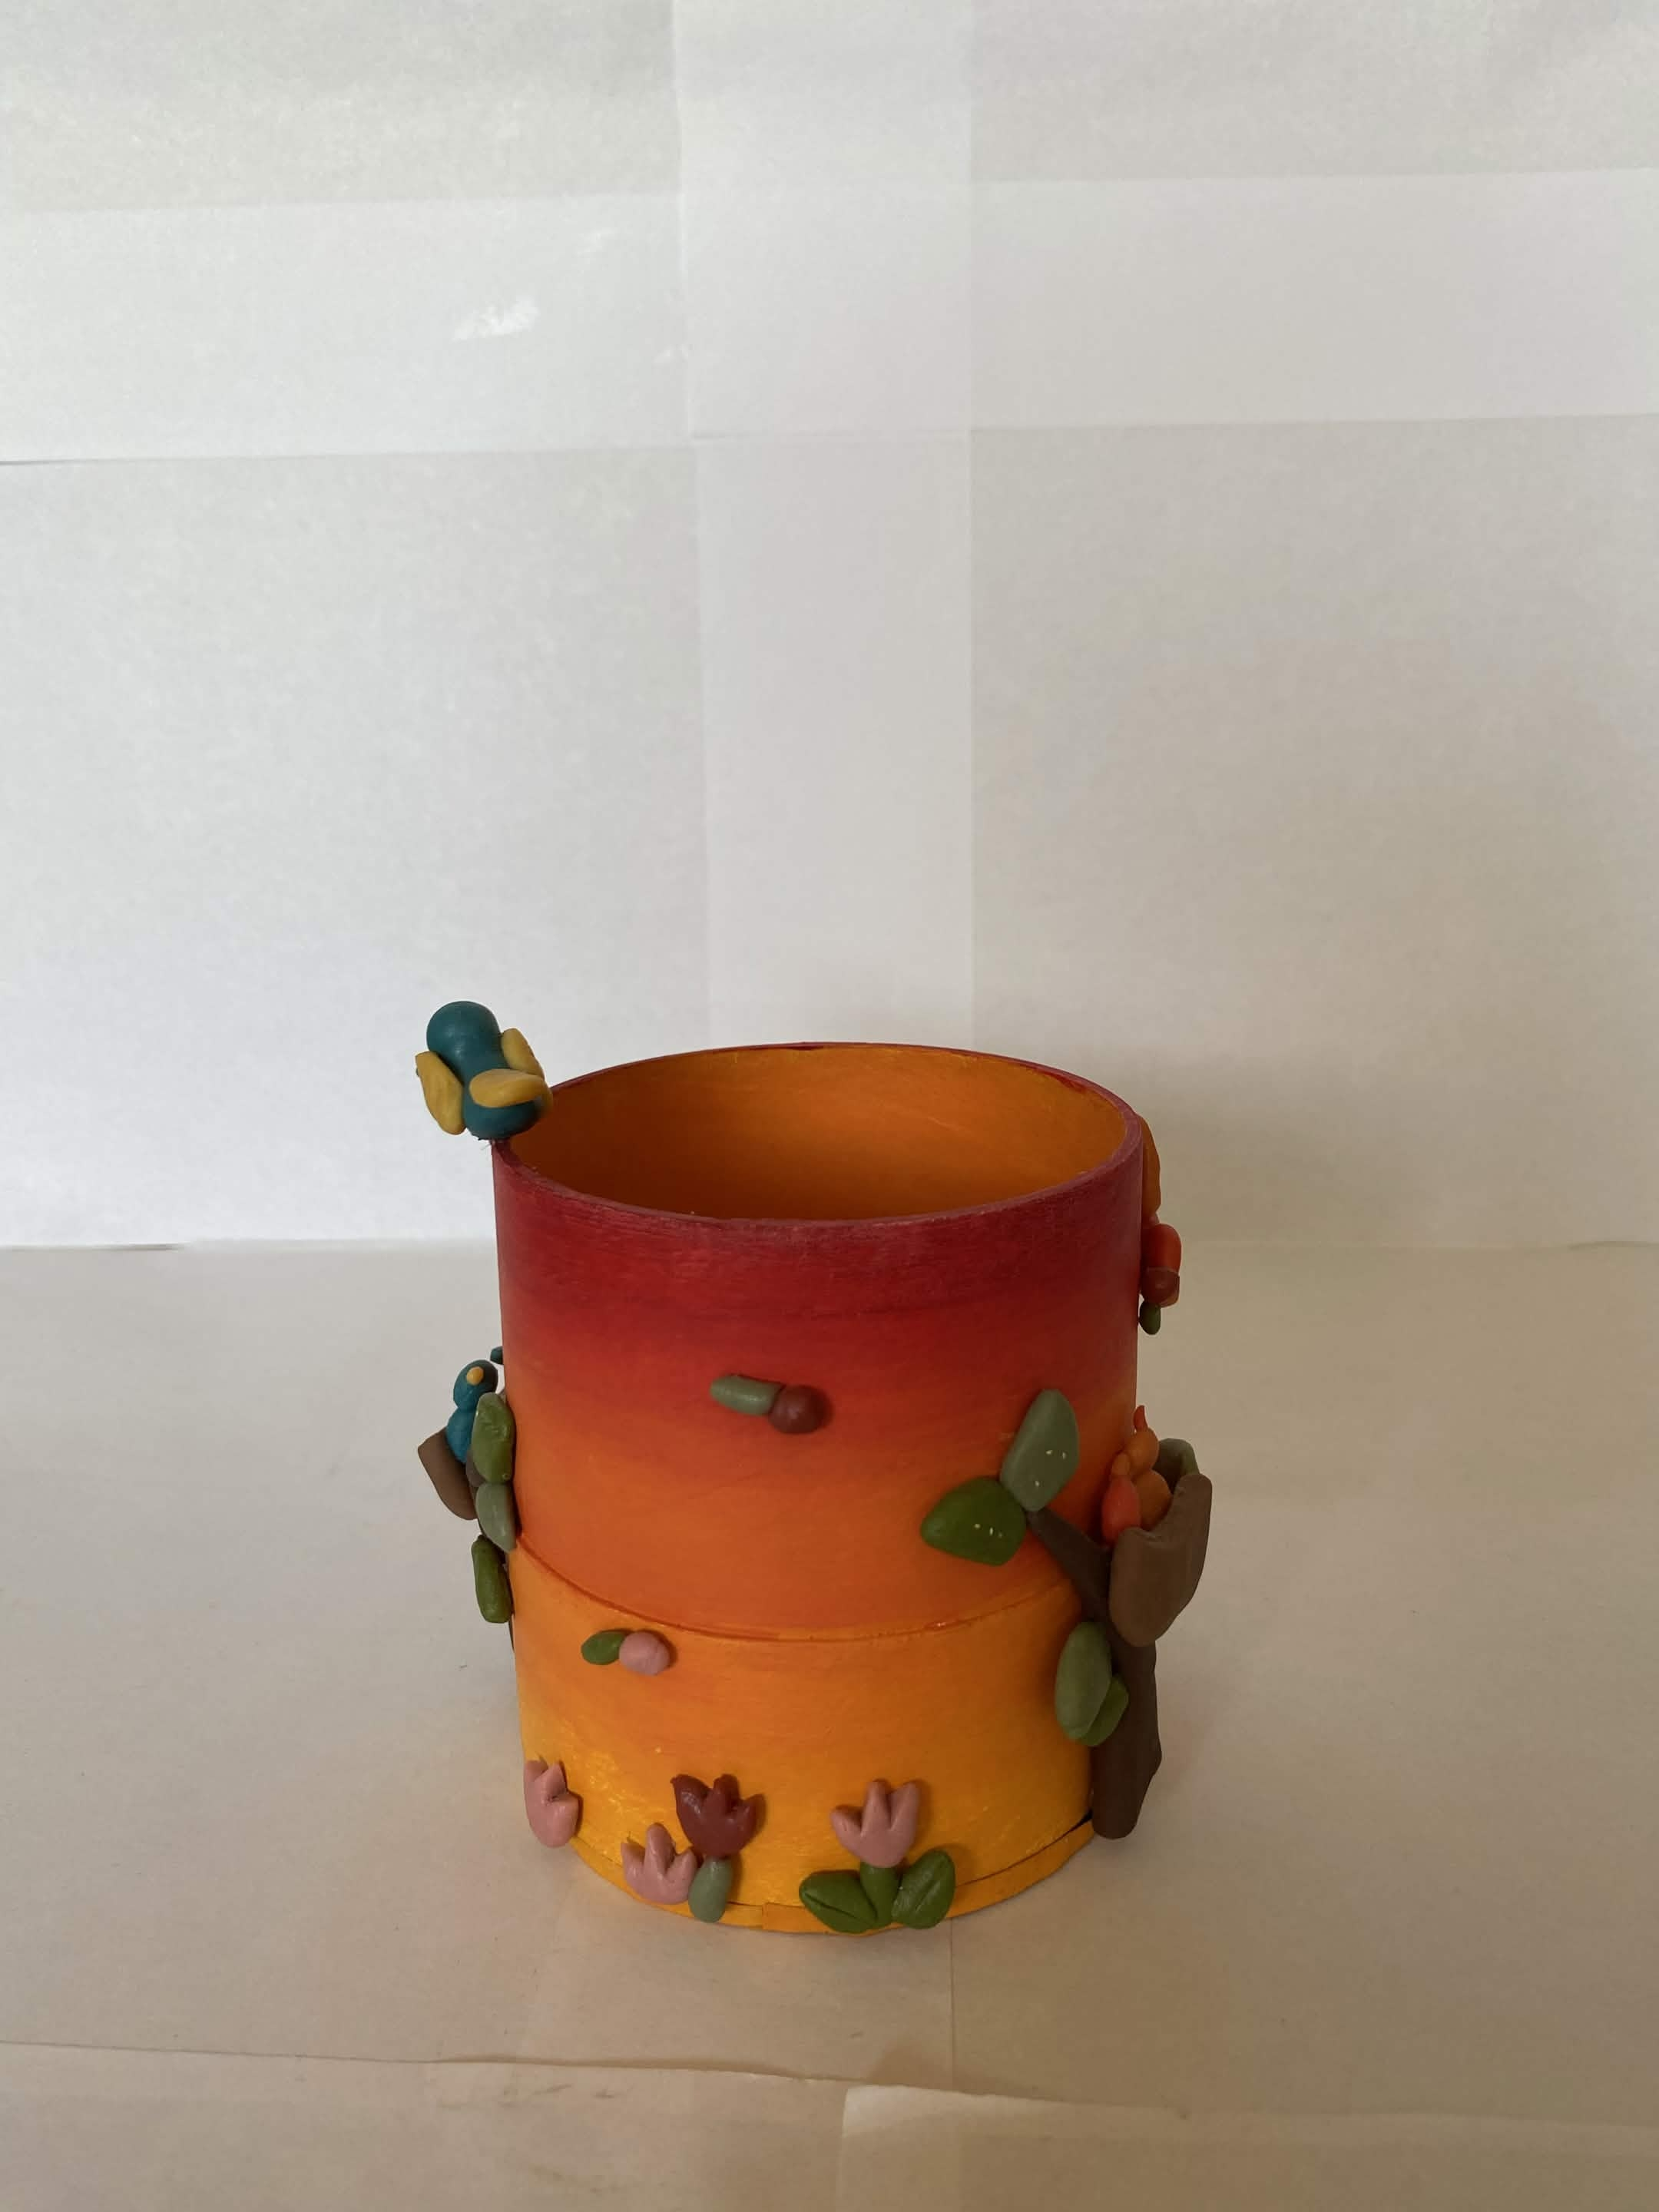
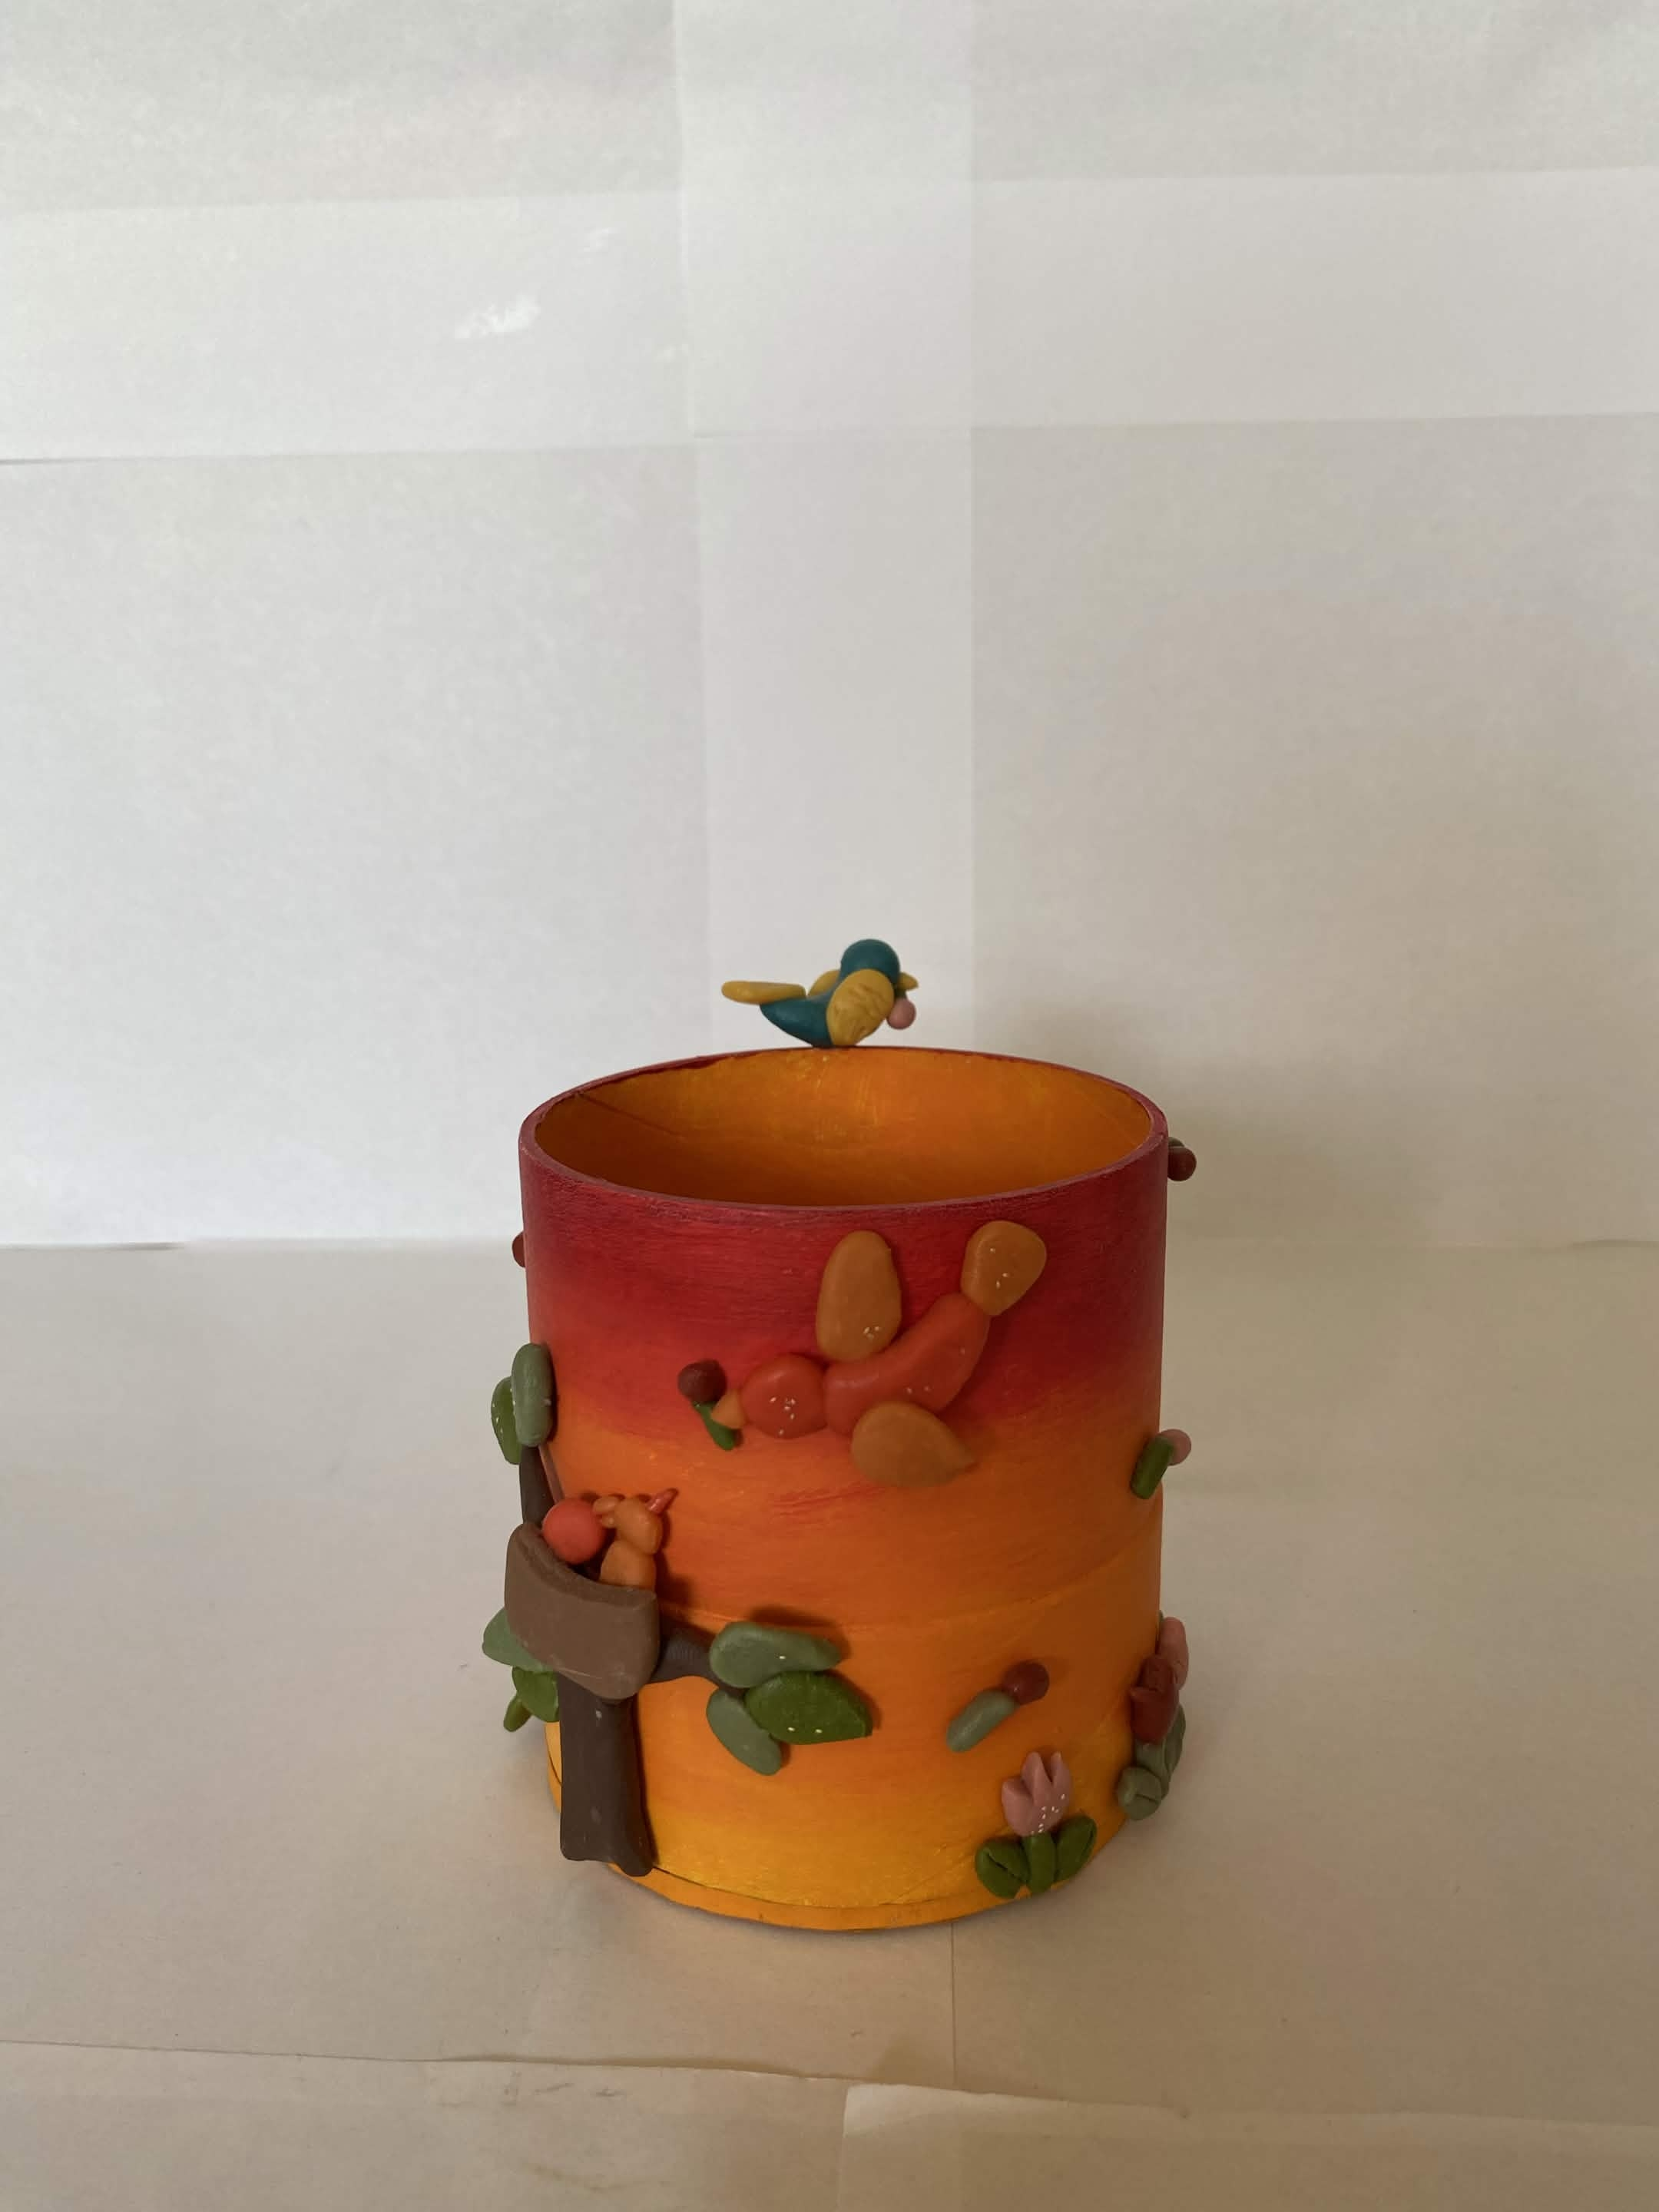
replaced pixel art with references to misc art

Changed region(s): [[0.2481, 0.4062, 0.7444, 0.9062]]

diff --git a/cards.js b/cards.js
@@ -26,13 +26,13 @@ function loadCardboardPage() {
         .catch(error => console.error("Failed to load cardboard data:", error));
 }
 
-function loadPixelPage() {
-    fetch("json/pixel.json")
+function loadMiscPage() {
+    fetch("json/misc.json")
         .then(response => response.json())
-        .then(pixelObjects => {
-            pixelObjects.forEach(loadObjects);
+        .then(miscObjects => {
+            miscObjects.forEach(loadObjects);
         })
-        .catch(error => console.error("Failed to load pixel data:", error));
+        .catch(error => console.error("Failed to load misc data:", error));
 }
 
 function loadTheatrePage() {
@@ -147,7 +147,9 @@ function loadObjects(object) {
     const blogParagraph = document.createElement('p');
     blogParagraph.textContent = object.description;
     const blogInspo = document.createElement('p');
-    blogInspo.textContent = object.inspiration;
+    const bold = document.createElement("strong");
+    bold.textContent = "Inspiration: ";
+    blogInspo.append(bold, object.inspiration);
     blogContent.append(blogTitle, blogDate, breakLine, blogParagraph, blogInspo);
 }
 

diff --git a/cardboard.html b/cardboard.html
@@ -21,7 +21,7 @@
                         <a href="clay.html">CLAY</a>
                         <a href="painting.html">PAINTING</a>
                         <a class="active" href="cardboard.html">CARDBOARD</a>
-                        <a href="pixel_art.html">PIXEL ART</a>
+                        <a href="misc.html">MISC ART</a>
                         <a href="theatre_arts.html">TA91</a>
                         <a href="design.html">3D DESIGN</a>
                     </div>

diff --git a/clay.html b/clay.html
@@ -23,7 +23,7 @@
                         <a class="active" href="clay.html">CLAY</a>
                         <a href="painting.html">PAINTING</a>
                         <a href="cardboard.html">CARDBOARD</a>
-                        <a href="pixel_art.html">PIXEL ART</a>
+                        <a href="misc.html">MISC ART</a>
                         <a href="theatre_arts.html">TA91</a>
                         <a href="design.html">3D DESIGN</a>
                     </div>

diff --git a/design.html b/design.html
@@ -21,7 +21,7 @@
                         <a href="clay.html">CLAY</a>
                         <a href="painting.html">PAINTING</a>
                         <a href="cardboard.html">CARDBOARD</a>
-                        <a href="pixel_art.html">PIXEL ART</a>
+                        <a href="misc.html">MISC ART</a>
                         <a href="theatre_arts.html">TA91</a>
                         <a class="active" href="design.html">3D DESIGN</a>
                     </div>

diff --git a/home.html b/home.html
@@ -21,7 +21,7 @@
                         <a href="clay.html">CLAY</a>
                         <a href="painting.html">PAINTING</a>
                         <a href="cardboard.html">CARDBOARD</a>
-                        <a href="pixel_art.html">PIXEL ART</a>
+                        <a href="misc.html">MISC ART</a>
                         <a href="theatre_arts.html">TA91</a>
                         <a href="design.html">3D DESIGN</a>
                     </div>

diff --git a/painting.html b/painting.html
@@ -21,7 +21,7 @@
                         <a href="clay.html">CLAY</a>
                         <a class="active" href="painting.html">PAINTING</a>
                         <a href="cardboard.html">CARDBOARD</a>
-                        <a href="pixel_art.html">PIXEL ART</a>
+                        <a href="misc.html">MISC ART</a>
                         <a href="theatre_arts.html">TA91</a>
                         <a href="design.html">3D DESIGN</a>
                     </div>

diff --git a/theatre_arts.html b/theatre_arts.html
@@ -21,7 +21,7 @@
                         <a href="clay.html">CLAY</a>
                         <a href="painting.html">PAINTING</a>
                         <a href="cardboard.html">CARDBOARD</a>
-                        <a href="pixel_art.html">PIXEL ART</a>
+                        <a href="misc.html">MISC ART</a>
                         <a class="active" href="theatre_arts.html">TA91</a>
                         <a href="design.html">3D DESIGN</a>
                     </div>